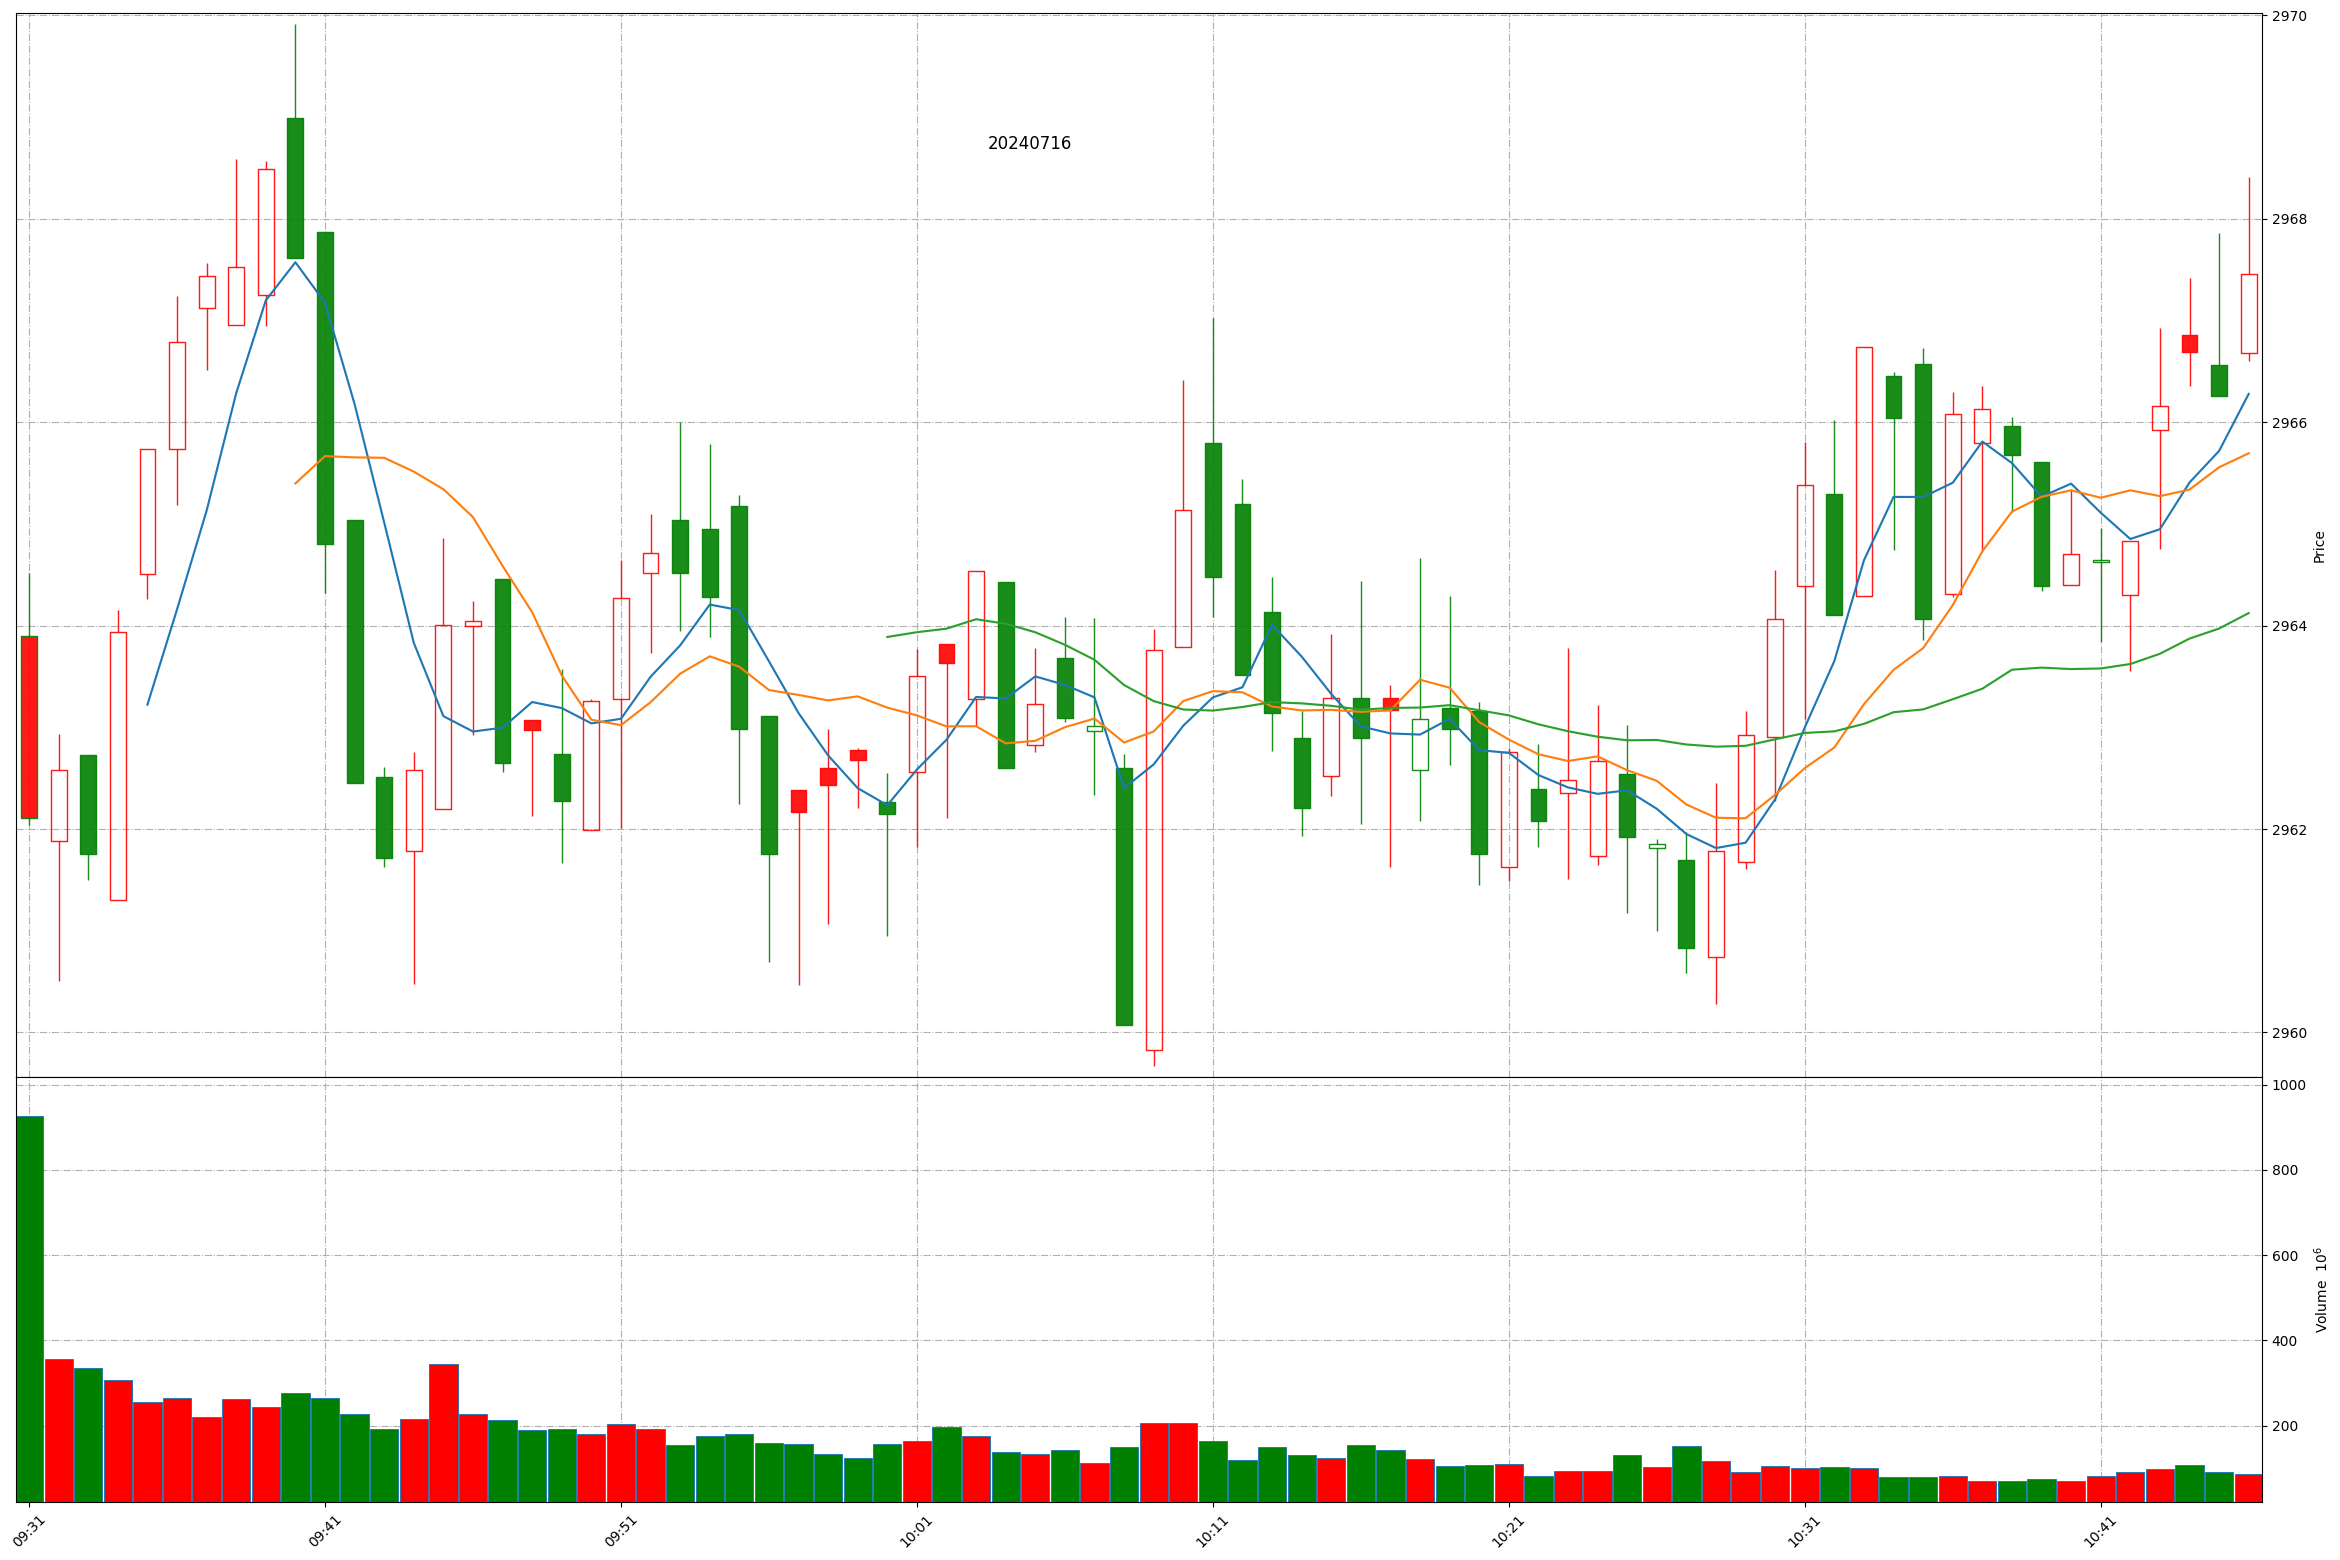
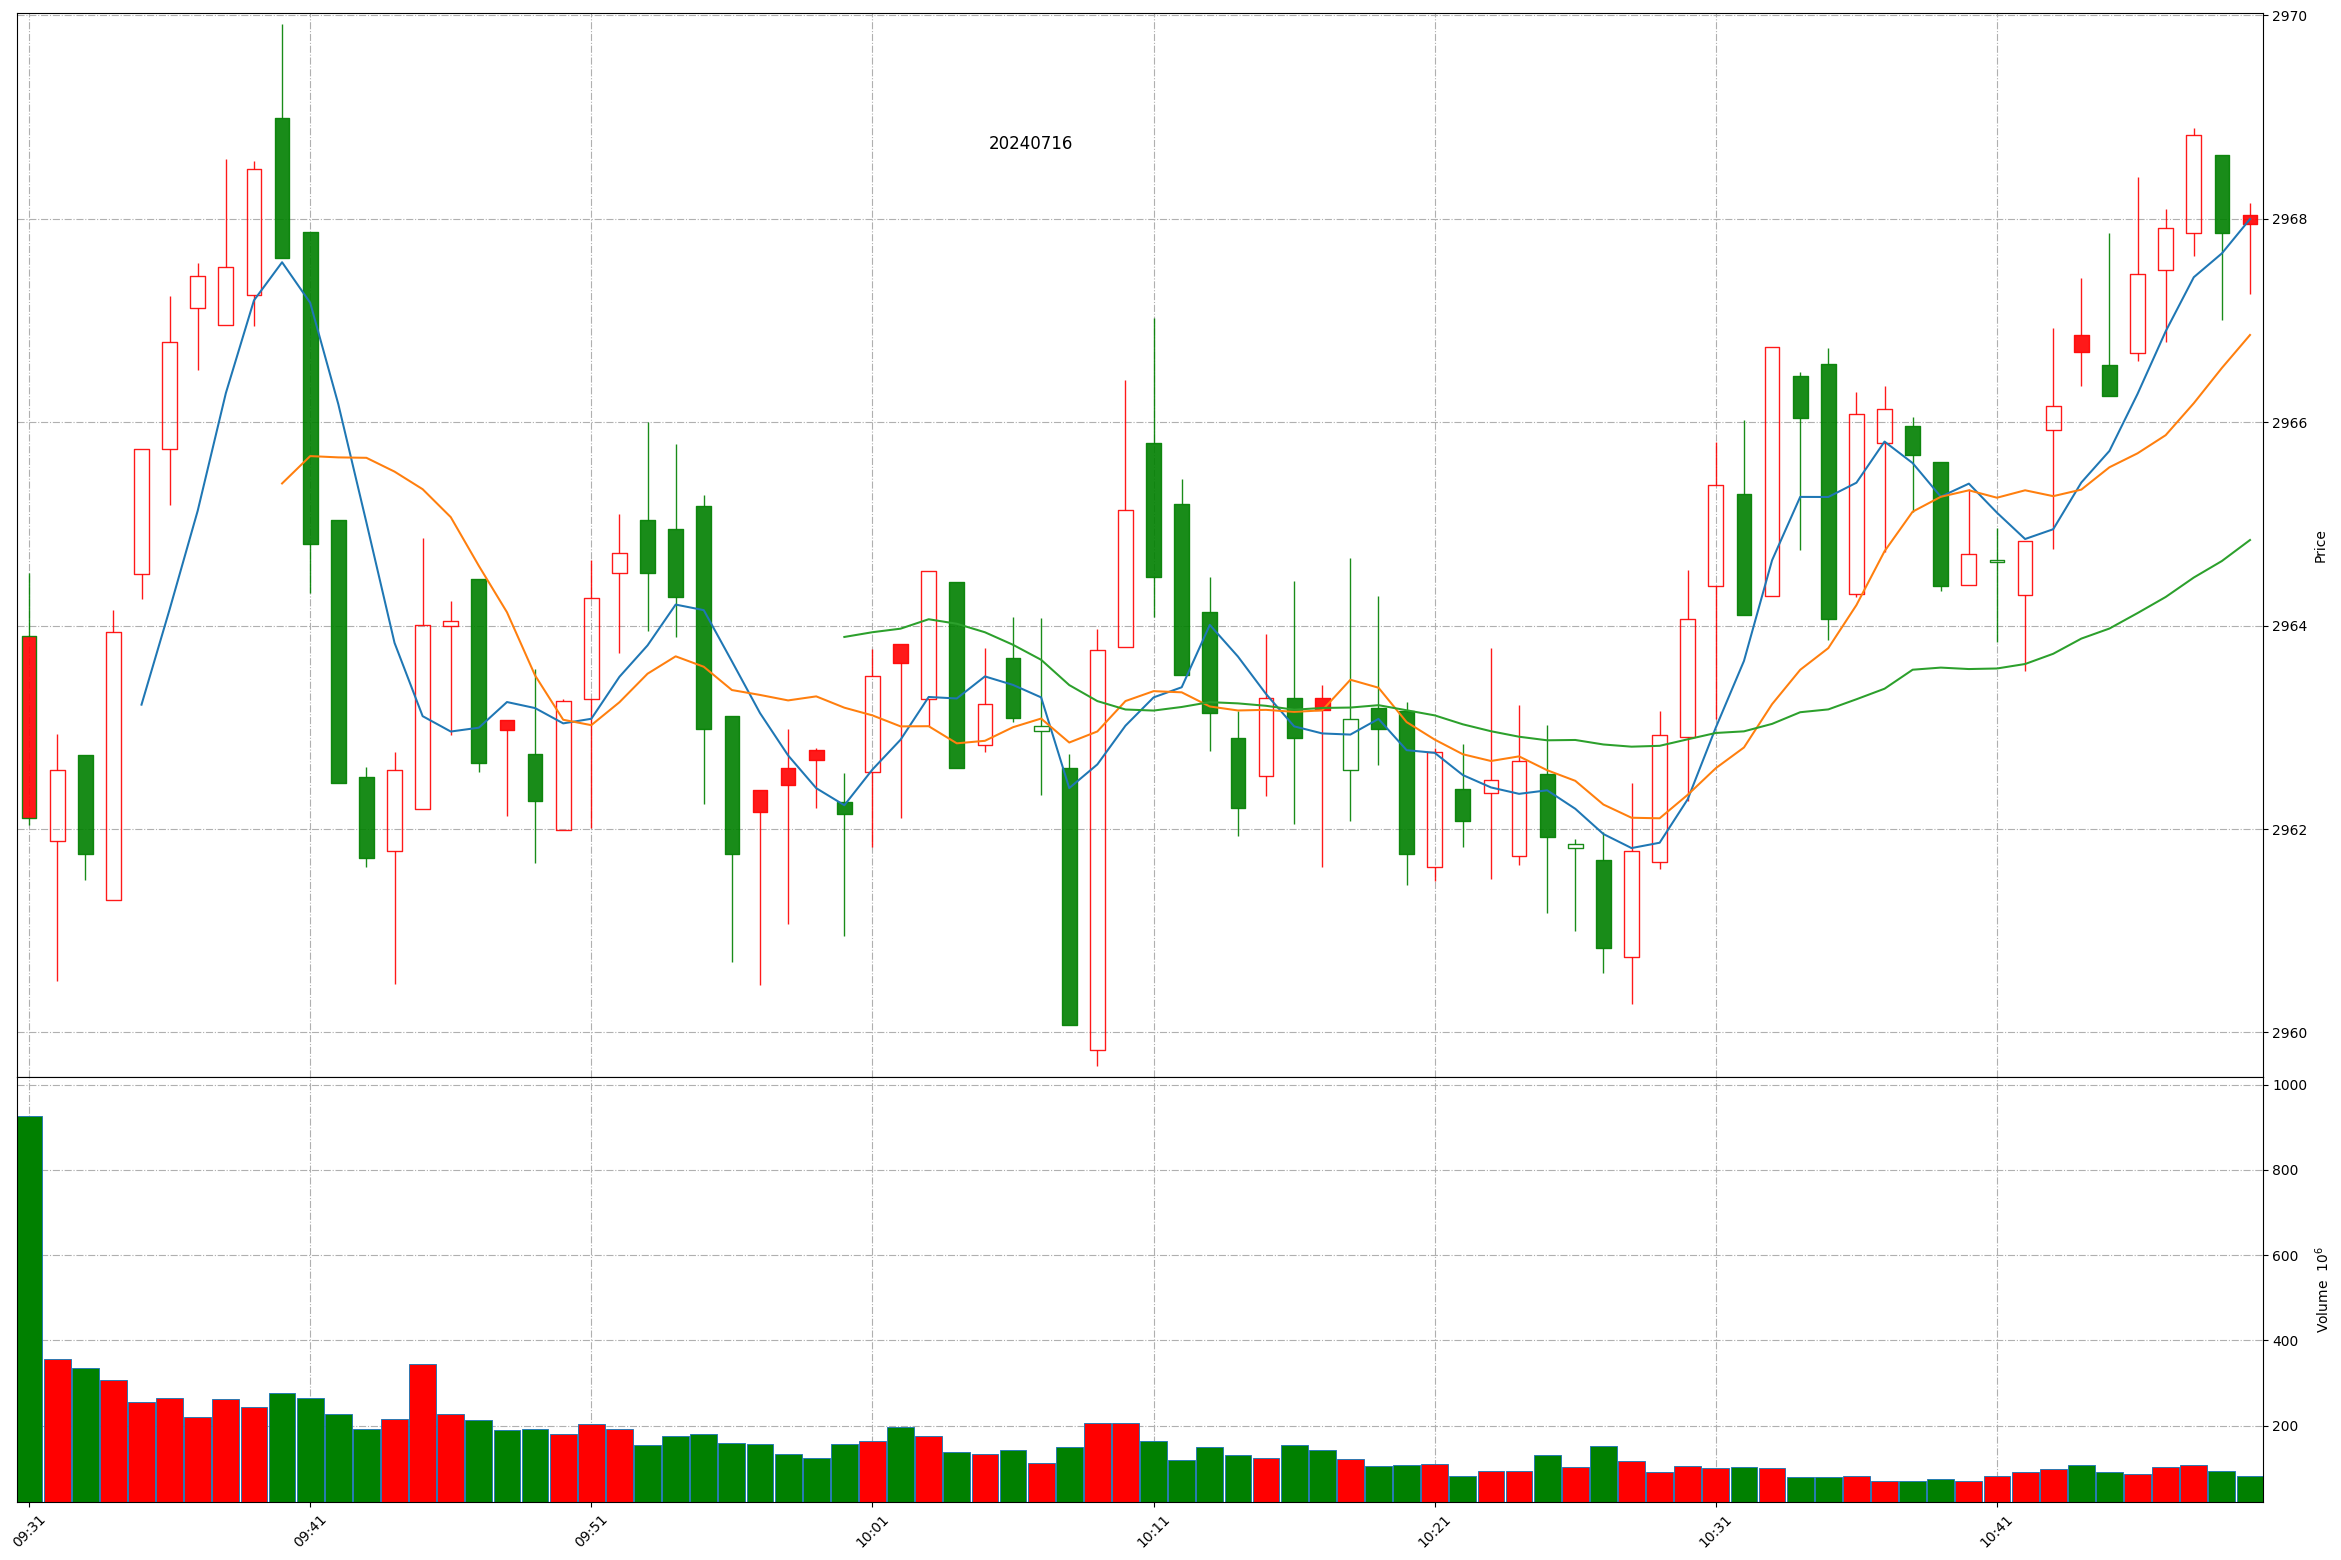
Github action update at 2024-07-16 10:50:15.

Changed region(s): [[0.0624, 0.0615, 0.9671, 0.6769], [0.0, 0.8615, 0.9671, 0.9846], [0.0, 0.4, 0.0624, 0.5846]]

diff --git a/README.md b/README.md
@@ -1,11 +1,11 @@
 
 # Daily-A-share-market-quotes 每日 A 股指数（5min 更新）- 20240716
 
-### 上证指数 20240716 10:46
+### 上证指数 20240716 10:50
 ![](./fig/2024/7/20240716-sh000001.png)
 
-### 深证成指 20240716 10:46
+### 深证成指 20240716 10:50
 ![](./fig/2024/7/20240716-sz399001.png)
 
-### 北证50 20240716 10:46
+### 北证50 20240716 10:50
 ![](./fig/2024/7/20240716-bj899050.png)
